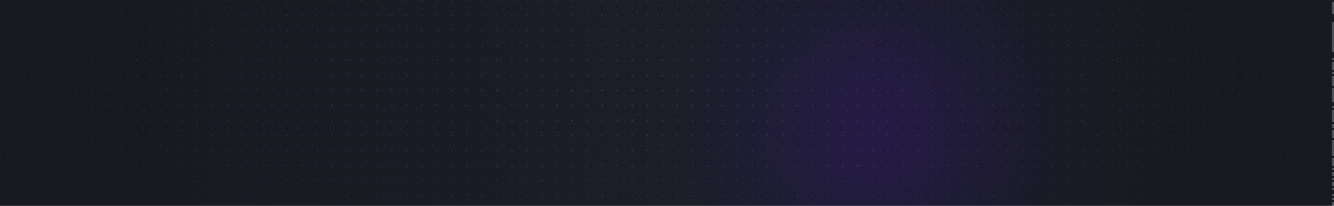
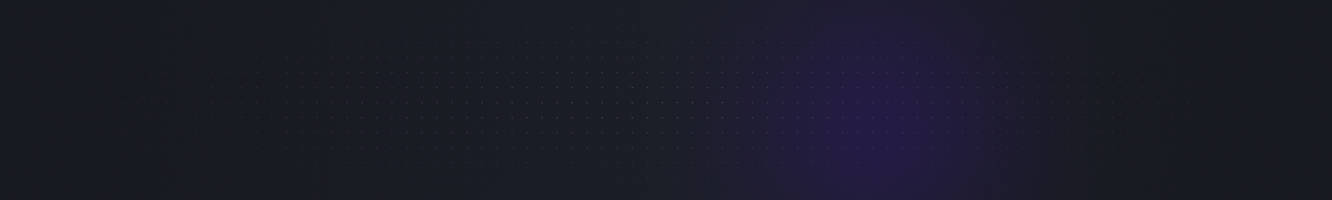
fix(ui): blueprint cover
relate to #2347

Changed region(s): [[0.0, 0.99, 1.0, 1.0]]

diff --git a/ui/src/override/components/flows/blueprints/BlueprintsPageHeader.vue b/ui/src/override/components/flows/blueprints/BlueprintsPageHeader.vue
@@ -14,9 +14,11 @@
 
     .header {
         background: url("../../../../assets/dot-bg.jpg") no-repeat;
+        background-size: cover;
         text-align: center;
         padding-top: calc(4 * var(--spacer));
-        padding-bottom: calc(6 * var(--spacer));
+        padding-bottom: calc(5 * var(--spacer));
+        border-bottom: 1px solid var(--bs-border-color);
 
         .catch-phrase {
             color: $white;